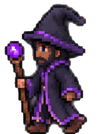
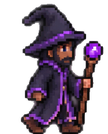
Arreglar el lado al que mira el mago: andaba de espaldas
Matias lo vio jugando: al ir hacia la derecha el mago andaba de espaldas.
Estaba reflejando al reves.

En el commit anterior medi que las dos filas de lado de la hoja eran la misma
pose (siluetas 93% iguales tal cual y solo 62% en espejo), di por bueno el
rotulo "IZQUIERDA" de la primera y generé la derecha reflejandola. Pero las
dos miran a la DERECHA: el centro de la piel de la cara cae 10 px a la derecha
del centro de la cabeza, cuando en la fila frontal (que sabemos que es de
frente) ese desvio es de 4.

Asi que ahora la fila de lado se usa tal cual para la derecha y reflejada para
la izquierda. Comprobado en el juego: andando a la izquierda la cara va
delante y el pico del sombrero detras, y a la derecha al contrario.

La leccion, apuntada en CLAUDE.md: comprobar que dos poses son iguales no dice
a donde miran, y el rotulo de una hoja de sprites es una pista, no un dato.

diff --git a/CLAUDE.md b/CLAUDE.md
@@ -135,9 +135,9 @@ Arranca en `MenuPrincipal.tscn` (jugar, controles, salir). La partida vive en
   renderizado del resto.
 - **El mago BlueWizard se queda en el repositorio** aunque no se use. Cambiar
   de personaje es una línea de `Jugador.tscn`, y así volver atrás es gratis.
-- **La derecha del mago es la izquierda reflejada.** La fila «derecha» de la
-  hoja no estaba reflejada: era la misma pose mirando al mismo lado (siluetas
-  93% iguales tal cual, 62% en espejo). Reflejar garantiza el par.
+- **La izquierda del mago es la derecha reflejada.** Las dos filas de lado de
+  la hoja son la misma pose y las dos miran a la derecha, aunque una se
+  rotule «izquierda». Reflejar garantiza el par.
 - **Andar hacia arriba tiene tres poses y no cuatro**: el fotograma «arriba 3»
   de la hoja trae dos báculos. Esa animación va a 7,5 fps en vez de 10 para
   que el ciclo dure lo mismo (0,4 s) y el paso no se acelere.
@@ -179,6 +179,12 @@ Arranca en `MenuPrincipal.tscn` (jugar, controles, salir). La partida vive en
   sobre la caja del alfa: debajo de los pies hay restos de sombra suave. La
   señal de que la referencia es buena es que las cuatro direcciones midan lo
   mismo de alto.
+- **Comprobar que dos poses son iguales no dice a dónde miran.** Con el mago
+  medí que las filas «izquierda» y «derecha» eran la misma pose, di por bueno
+  el rótulo y reflejé al revés: el mago andaba de espaldas al ir a la derecha,
+  y lo pilló Matías jugando. La medida que sí lo resuelve es dónde cae la piel
+  de la cara respecto al centro de la cabeza, con la vista frontal de
+  referencia. **Los rótulos de una hoja de sprites son una pista, no un dato.**
 - **La impresión visual vuelve a fallar con el contraste.** El nigromante
   parecía perderse contra el suelo más que el mago anterior; medido, es al
   revés: 1,81:1 contra 1,55:1. Tercera vez que la medición contradice al ojo.

diff --git a/assets/README.md b/assets/README.md
@@ -13,9 +13,12 @@ lados. 15 PNG de 108×134 (`abajo_0..3`, `izquierda_0..3`, `derecha_0..3`,
 Salieron de una hoja de 4×4 casillas rotuladas. Esa hoja traía dos defectos,
 los dos encontrados midiendo y no mirando:
 
-- **La fila DERECHA no estaba reflejada**: era la misma pose que IZQUIERDA
-  mirando al mismo lado (siluetas 93 % iguales tal cual y solo 62 % en espejo).
-  La derecha se genera reflejando la izquierda.
+- **Las dos filas de lado son la misma pose y miran al mismo sitio**: siluetas
+  93 % iguales tal cual y solo 62 % en espejo. Y miran a la **derecha**, no a la
+  izquierda que dice el rótulo: el centro de la piel de la cara cae 10 px a la
+  derecha del centro de la cabeza, mientras que en la fila frontal (que sabemos
+  que es de frente) ese desvío es de 4. Así que la fila de lado se usa tal cual
+  para la derecha y **reflejada** para la izquierda.
 - **El fotograma ARRIBA 3 tiene dos báculos**, uno en cada mano. Se descarta,
   así que andar hacia arriba usa tres poses en vez de cuatro. Para que el paso
   no vaya más rápido, esa animación va a 7,5 fps en vez de 10: el ciclo dura

diff --git a/CREDITS.md b/CREDITS.md
@@ -20,9 +20,10 @@ Todo el arte del juego viene de packs de terceros publicados en itch.io.
 - **Licencia**: **SIN VERIFICAR — hay que aclararla antes de publicar nada**
 - **Archivos**: `assets/mago/*.png` (15 frames) + `animaciones_mago.tres`
 - **Procesado**: recortado de una hoja de 4×4 casillas rotuladas (1254×1254),
-  quitando rótulos y rejilla y reescalado a 108×134. La fila «derecha» de la
-  hoja no estaba reflejada, así que se genera reflejando la izquierda, y el
-  fotograma «arriba 3» se descarta porque trae dos báculos.
+  quitando rótulos y rejilla y reescalado a 108×134. Las dos filas de lado de
+  la hoja son la misma pose mirando a la derecha, así que la izquierda se
+  genera reflejándola; y el fotograma «arriba 3» se descarta porque trae dos
+  báculos.
 - **Nota**: la imagen la aportó Matías en el chat, sin decir de dónde salía.
   **Hay que averiguar de dónde viene.**
 
